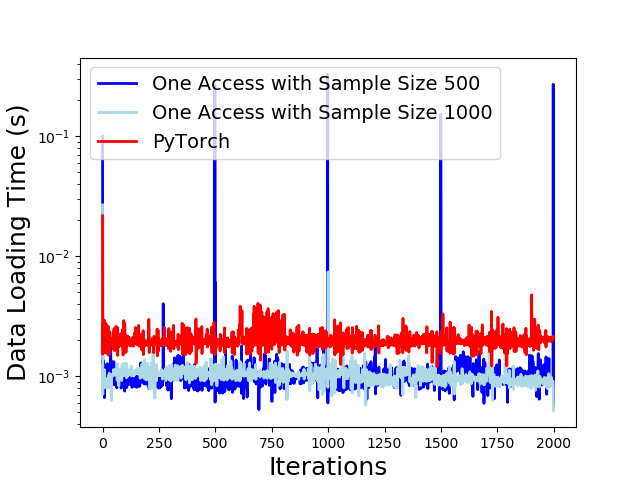
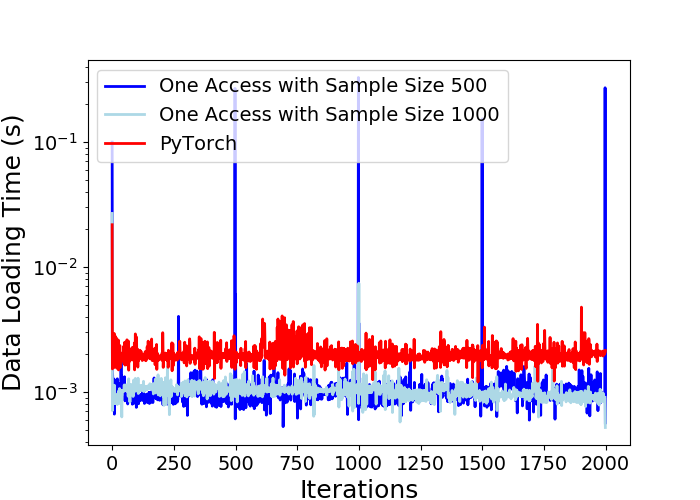
Finish graphing cifar10 and ms coco

diff --git a/benchmarks/cifar10/plots/plot_sample_creator_benchmark.py b/benchmarks/cifar10/plots/plot_sample_creator_benchmark.py
@@ -9,6 +9,12 @@ ss10000 = [
 ]
 
 fig, ax = plt.subplots()
+fig.set_figheight(5)
+fig.set_figwidth(7)
+
+plt.xticks(fontsize=14)
+plt.yticks(fontsize=14)
+
 bplot = ax.boxplot(
     [ss1, ss10, ss100, ss1000, ss10000],
     vert=True,  # vertical box alignment
@@ -17,14 +23,16 @@ bplot = ax.boxplot(
 ax.set_title('Cifar-10 Sample Creation Times', fontsize=18)
 
 # fill with colors
-colors = ['pink', 'lightblue', 'lightgreen']
+"""
+colors = ['lightblue', 'lightblue', 'lightblue']
 
 for patch, color in zip(bplot['boxes'], colors):
     patch.set_facecolor(color)
+"""
 
 # adding horizontal grid lines
 ax.yaxis.grid(True)
 ax.set_xlabel('Sample Size', fontsize=18)
 ax.set_ylabel('Sample Creation Time (s)', fontsize=18)
 
-plt.savefig("sample_creator_benchmark.png")
+plt.savefig("cifar10_sample_creation.png")

diff --git a/benchmarks/coco/plots/plot_measurements.py b/benchmarks/coco/plots/plot_measurements.py
@@ -8,13 +8,18 @@ oa = np.load(Path("../measurements/one_access_400_full_epoch.npy").open('rb'))
 pt = np.load(Path("../measurements/pytorch_full_epoch_w1.npy").open('rb'))
 
 fig, ax = plt.subplots()
+fig.set_figheight(5)
+fig.set_figwidth(7)
+
+plt.xticks(fontsize=14)
+plt.yticks(fontsize=14)
+
 line, = ax.plot(oa, color='blue', lw=2)
 line, = ax.plot(pt, color='red', lw=2)
 ax.set_yscale('log')
-ax.legend([
-    'One Access with Sample Size 400',
-    'PyTorch'
-], loc=2, prop={'size': 14})
+ax.legend(['One Access with Sample Size 400', 'PyTorch'],
+          loc=2,
+          prop={'size': 14})
 ax.set_xlabel('Iterations', fontsize=18)
 ax.set_ylabel('Data Loading Time (s)', fontsize=18)
 plt.savefig("coco_measurements.png")

diff --git a/benchmarks/coco/plots/plot_sample_creator_benchmark.py b/benchmarks/coco/plots/plot_sample_creator_benchmark.py
@@ -7,6 +7,12 @@ ss1000 = [26.35, 26.56, 26.44, 26.27, 26.31, 26.39, 27.25, 27.18, 26.43, 26.34]
 ss10000 = [28.3, 29.56, 29.55, 29.42, 29.09, 29.09, 29.36, 29.34, 29.8, 29.36]
 
 fig, ax = plt.subplots()
+fig.set_figheight(5)
+fig.set_figwidth(7)
+
+plt.xticks(fontsize=14)
+plt.yticks(fontsize=14)
+
 bplot = ax.boxplot(
     [ss1, ss10, ss100, ss1000, ss10000],
     vert=True,  # vertical box alignment
@@ -15,7 +21,7 @@ bplot = ax.boxplot(
 ax.set_title('MS COCO Sample Creation Times', fontsize=18)
 
 # fill with colors
-colors = ['pink', 'lightblue', 'lightgreen']
+colors = ['lightblue', 'lightblue', 'lightblue']
 
 for patch, color in zip(bplot['boxes'], colors):
     patch.set_facecolor(color)

diff --git a/benchmarks/cifar10/plots/plot_measurements.py b/benchmarks/cifar10/plots/plot_measurements.py
@@ -10,6 +10,12 @@ one_access_1000 = np.load(
 pt = np.load(Path("../measurements/pytorch.npy").open('rb'))
 
 fig, ax = plt.subplots()
+fig.set_figheight(5)
+fig.set_figwidth(7)
+
+plt.xticks(fontsize=14)
+plt.yticks(fontsize=14)
+
 line, = ax.plot(one_access_500, color='blue', lw=2)
 line, = ax.plot(one_access_1000, color='lightblue', lw=2)
 line, = ax.plot(pt, color='red', lw=2)
